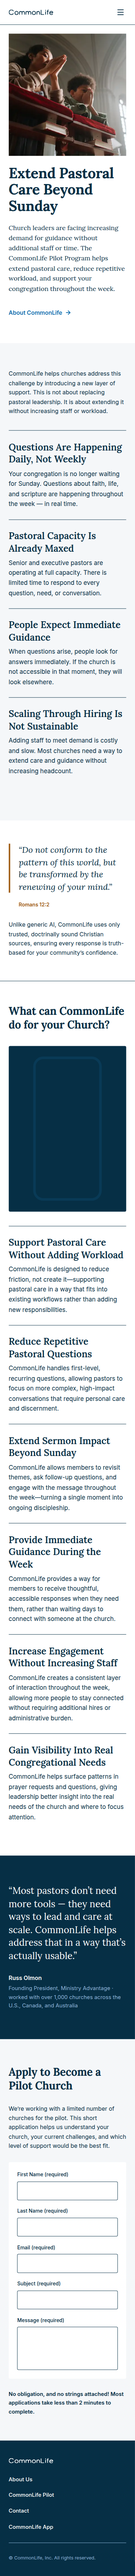
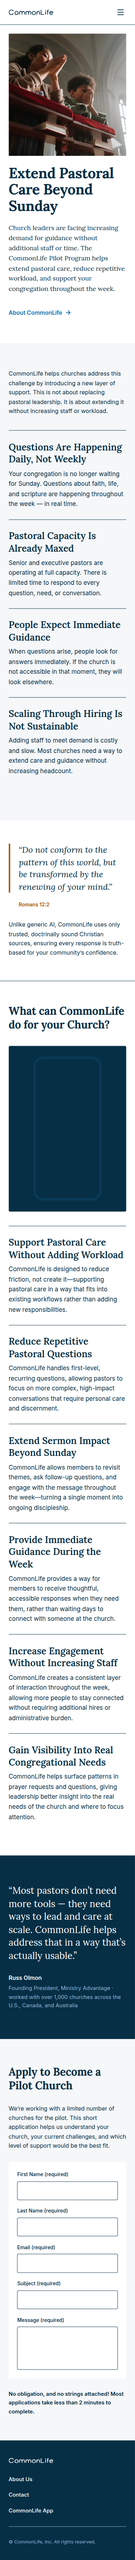
Remove the CommonLife Pilot link until that page exists.
The header and footer no longer point at /commonlife-pilot, which 404s. The approved pilot copy on the page stays.

Changed region(s): [[0.0, 0.4684, 1.0, 0.9993], [0.0585, 0.0312, 0.9069, 0.406], [0.9947, 0.9993, 1.0, 1.0]]

diff --git a/components/Navbar.tsx b/components/Navbar.tsx
@@ -6,7 +6,6 @@ import { APP_URL, marketingRoutes } from "@/lib/site-links";
 
 const navLinks = [
   { label: "About CommonLife", href: marketingRoutes.about, external: false },
-  { label: "CommonLife Pilot", href: marketingRoutes.pilot, external: false },
   { label: "Contact", href: marketingRoutes.contact, external: false },
   { label: "CommonLife App", href: APP_URL, external: true },
 ] as const;

diff --git a/components/Footer.tsx b/components/Footer.tsx
@@ -3,7 +3,6 @@ import { APP_URL, marketingRoutes } from "@/lib/site-links";
 
 const footerLinks = [
   { label: "About Us", href: marketingRoutes.about, external: false },
-  { label: "CommonLife Pilot", href: marketingRoutes.pilot, external: false },
   { label: "Contact", href: marketingRoutes.contact, external: false },
   { label: "CommonLife App", href: APP_URL, external: true },
 ] as const;

diff --git a/lib/site-links.ts b/lib/site-links.ts
@@ -4,6 +4,5 @@ export const APP_URL = "https://app.commonlife.ai";
 export const marketingRoutes = {
   home: "/",
   about: "/about",
-  pilot: "/commonlife-pilot",
   contact: "/contact",
 } as const;
